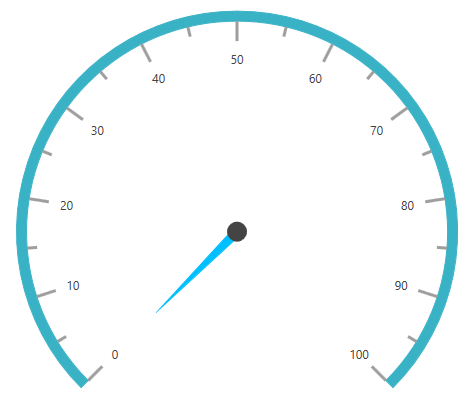
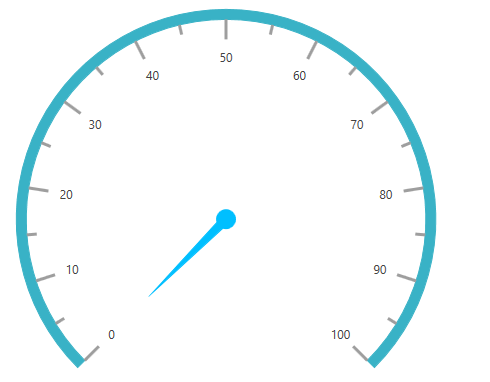
RangePointer, SymbolPointer and NeedlePointer customization options added.

diff --git a/wpf/Radial-Gauge/Pointers.md b/wpf/Radial-Gauge/Pointers.md
@@ -123,7 +123,7 @@ sfCircularGauge.Scales.Add(mainscale);
 
 ### Needle pointer customization
 
-The length of a needle is controlled using the [`NeedleLengthFactor`](https://help.syncfusion.com/cr/wpf/Syncfusion.SfGauge.WPF~Syncfusion.UI.Xaml.Gauges.CircularPointer~NeedleLengthFactor.html) property. The minimum and maximum bounds of the `NeedleLengthFactor` property is 0 to 1. The needle’s UI is customized using the [`NeedlePointerStroke`](https://help.syncfusion.com/cr/wpf/Syncfusion.SfGauge.WPF~Syncfusion.UI.Xaml.Gauges.CircularPointer~NeedlePointerStroke.html) and [`NeedlePointerStrokeThickness`](https://help.syncfusion.com/cr/wpf/Syncfusion.SfGauge.WPF~Syncfusion.UI.Xaml.Gauges.CircularPointer~NeedlePointerStrokeThickness.html) properties. The size of the pointer cap can be modified by changing the [`PointerCapDiameter`](https://help.syncfusion.com/cr/wpf/Syncfusion.SfGauge.WPF~Syncfusion.UI.Xaml.Gauges.CircularPointer~PointerCapDiameter.html) property, and color can be modified using the [`KnobStroke`](https://help.syncfusion.com/cr/wpf/Syncfusion.SfGauge.WPF~Syncfusion.UI.Xaml.Gauges.CircularPointer~KnobStroke.html) property.
+The length of a needle is controlled using the [`NeedleLengthFactor`](https://help.syncfusion.com/cr/wpf/Syncfusion.SfGauge.WPF~Syncfusion.UI.Xaml.Gauges.CircularPointer~NeedleLengthFactor.html) property. The minimum and maximum bounds of the `NeedleLengthFactor` property is 0 to 1. The needle’s UI is customized using the [`NeedlePointerStroke`](https://help.syncfusion.com/cr/wpf/Syncfusion.SfGauge.WPF~Syncfusion.UI.Xaml.Gauges.CircularPointer~NeedlePointerStroke.html) and [`NeedlePointerStrokeThickness`](https://help.syncfusion.com/cr/wpf/Syncfusion.SfGauge.WPF~Syncfusion.UI.Xaml.Gauges.CircularPointer~NeedlePointerStrokeThickness.html) properties. The size of the pointer cap can be modified by changing the [`PointerCapDiameter`](https://help.syncfusion.com/cr/wpf/Syncfusion.SfGauge.WPF~Syncfusion.UI.Xaml.Gauges.CircularPointer~PointerCapDiameter.html) property, and color can be modified using the [`KnobStroke`](https://help.syncfusion.com/cr/wpf/Syncfusion.SfGauge.WPF~Syncfusion.UI.Xaml.Gauges.CircularPointer~KnobStroke.html) and [`KnobFill`](https://help.syncfusion.com/cr/wpf/Syncfusion.SfGauge.WPF~Syncfusion.UI.Xaml.Gauges.CircularPointer~KnobFill.html) properties.
 
 {% tabs %}
 
@@ -139,6 +139,7 @@ The length of a needle is controlled using the [`NeedleLengthFactor`](https://he
 
     <gauge:CircularPointer PointerType="NeedlePointer" NeedlePointerType="Triangle" 
                            NeedlePointerStroke="DeepSkyBlue" PointerCapDiameter="20" KnobStroke="DeepSkyBlue"
+			   KnobFill="DeepSkyBlue"
                            NeedleLengthFactor="0.5" NeedlePointerStrokeThickness="10"/>
 
     </gauge:CircularScale.Pointers>
@@ -172,6 +173,8 @@ circularPointer.NeedleLengthFactor = 0.5;
 circularPointer.PointerCapDiameter = 20;
 
 circularPointer.KnobStroke = new SolidColorBrush(Colors.DeepSkyBlue);
+
+circularPointer.KnobFill = new SolidColorBrush(Colors.DeepSkyBlue);
 
 mainscale.Pointers.Add(circularPointer);
 
@@ -470,8 +473,11 @@ sfCircularGauge.Scales.Add(mainscale);
 
 ### Setting position for range pointer
 
-The `RangePointer` can be positioned inside the gauge by the following two ways:
-*	Using the [`RangePointerPosition`](https://help.syncfusion.com/cr/wpf/Syncfusion.SfGauge.WPF~Syncfusion.UI.Xaml.Gauges.CircularScale~RangePointerPosition.html) property.
+The `RangePointer` can be positioned inside the gauge by the following ways:
+
+#### Setting range pointer position inside/outside	
+
+Using the [`RangePointerPosition`](https://help.syncfusion.com/cr/wpf/Syncfusion.SfGauge.WPF~Syncfusion.UI.Xaml.Gauges.CircularScale~RangePointerPosition.html) property.
 
 You can directly place the range pointer inside, outside or cross the scale by selecting one of the below option available in the `RangePointerPosition` property. 
 1.	Inside (Default)
@@ -531,9 +537,11 @@ sfCircularGauge.Scales.Add(mainscale);
 
 ![Pointers - Circular Gauge](Pointers_images/Pointers_img8.png)
 
-*	Using the `Offset` property with `RangePointerPosition` is custom.
+#### Setting custom range pointer position	
 
-This ways allows to place the range pointer anywhere inside the guage. First, set the `RangePointerPosition` to custom, and then set the `Offset` property for required position. `Offset' value should be from 0 to 1. 
+* Using the `Offset` property with `RangePointerPosition` is custom.
+
+`Offset` property allows to place the range pointer anywhere inside the guage. First, set the `RangePointerPosition` to custom, and then set the `Offset` property for required position. `Offset' value should be from 0 to 1. 
 
 {% tabs %}
 
@@ -579,6 +587,111 @@ sfCircularGauge.Scales.Add(mainscale);
 {% endtabs %}
 
 ![Pointers - Circular Gauge](Pointers_images/Pointers_img9.png)
+
+* `RangeStartOffset` and `RangeEndOffset` properties with `RangePointerPosition` is custom allows to place the range pointer anywhere inside the guage. First, set the `RangePointerPosition` to custom, and then set the `RangeStartOffset` and `RangeEndOffset` properties for required position. Offset value should be from 0 to 1. 
+
+{% tabs %}
+
+{% highlight xaml %}
+
+    <gauge:SfCircularGauge >
+        <gauge:SfCircularGauge.Scales >
+            <gauge:CircularScale  x:Name="scale" RangePointerPosition="Custom">
+                <gauge:CircularScale.Pointers>
+                    <gauge:CircularPointer PointerType="RangePointer" 
+					   RangeStartOffset="0.5"  RangeEndOffset="0.7" 
+                                           RangePointerStroke="LightGray" Value="90"/>
+                </gauge:CircularScale.Pointers>
+            </gauge:CircularScale>
+        </gauge:SfCircularGauge.Scales>
+    </gauge:SfCircularGauge>
+
+{% endhighlight %}
+
+{% highlight c# %}
+
+            SfCircularGauge sfCircularGauge = new SfCircularGauge();
+
+            CircularScale mainscale = new CircularScale();
+
+            mainscale.RangePointerPosition = RangePointerPosition.Custom;
+
+            CircularPointer circularPointer = new CircularPointer();
+
+            circularPointer.PointerType = PointerType.RangePointer;
+
+            circularPointer.RangeStartOffset = 0.5;
+
+            circularPointer.RangeEndOffset = 0.7;
+
+            circularPointer.RangePointerStroke = new SolidColorBrush(Colors.LightGray);
+
+            circularPointer.Value = 90;
+
+            mainscale.Pointers.Add(circularPointer);
+
+            sfCircularGauge.Scales.Add(mainscale);
+
+{% endhighlight %}
+
+{% endtabs %}
+
+![Pointers - Circular Gauge](Pointers_images/Pointers_rangepointer_custom_offset.png)
+
+### Range pointer start customization
+
+The [`RangeStart`] property used to customize the range pointer start position in scale. 
+
+{% tabs %}
+
+{% highlight xaml %}
+
+    <gauge:SfCircularGauge >
+            <gauge:SfCircularGauge.Scales >
+                <gauge:CircularScale  x:Name="scale" RangePointerPosition="Custom">
+                    <gauge:CircularScale.Pointers>
+                        <gauge:CircularPointer PointerType="RangePointer" 
+                                               RangeStart="20"
+                                               RangeStartOffset="0.5"  RangeEndOffset="0.7"
+                                           RangePointerStroke="LightGray" Value="90"/>
+                    </gauge:CircularScale.Pointers>
+                </gauge:CircularScale>
+            </gauge:SfCircularGauge.Scales>
+        </gauge:SfCircularGauge>
+
+{% endhighlight %}
+
+{% highlight c# %}
+
+            SfCircularGauge sfCircularGauge = new SfCircularGauge();
+
+            CircularScale mainscale = new CircularScale();
+
+            mainscale.RangePointerPosition = RangePointerPosition.Custom;
+
+            CircularPointer circularPointer = new CircularPointer();
+
+            circularPointer.PointerType = PointerType.RangePointer;
+
+            circularPointer.RangeStartOffset = 0.5;
+
+            circularPointer.RangeEndOffset = 0.7;
+
+	    circularPointer.RangeStart = 20;
+
+            circularPointer.RangePointerStroke = new SolidColorBrush(Colors.LightGray);
+
+            circularPointer.Value = 90;
+
+            mainscale.Pointers.Add(circularPointer);
+
+            sfCircularGauge.Scales.Add(mainscale);
+
+{% endhighlight %}
+
+{% endtabs %}
+
+![Pointers - Circular Gauge](Pointers_images/Pointers_rangepointer_custom_start.png)
 
 ### Setting range cap for range pointer
 
@@ -651,6 +764,137 @@ sfCircularGauge.Scales.Add(mainscale);
 {% endtabs %}
 
 ![Pointers - Circular Gauge](Pointers_images/Pointers_img10.png)
+
+### Symbol pointer types
+
+You can modify the symbol pointer view by choosing available options in [`Symbol`](https://help.syncfusion.com/cr/wpf/Syncfusion.SfGauge.WPF~Syncfusion.UI.Xaml.Gauges.Symbol.html) property. Please find the types of symbol below. 
+
+1. Arrow
+2. Cross
+3. Custom
+4. Diamond
+5. Ellipse
+6. Hexagon
+7. InvertedArrow
+8. InvertedTriangle
+9. Pentagon
+10. Rectangle
+11. RoundedRectangle
+12. Triangle
+
+{% tabs %}
+
+{% highlight xml %}
+
+     <gauge:SfCircularGauge >
+
+            <gauge:SfCircularGauge.Scales>
+
+                <gauge:CircularScale>
+
+                    <gauge:CircularScale.Pointers>
+
+                        <gauge:CircularPointer PointerType="SymbolPointer"  
+                                               Symbol="Pentagon"
+                                               Value="60"/>
+
+                    </gauge:CircularScale.Pointers>
+
+                </gauge:CircularScale>
+
+            </gauge:SfCircularGauge.Scales>
+
+        </gauge:SfCircularGauge>
+
+{% endhighlight %}
+
+{% highlight c# %}
+
+           SfCircularGauge sfCircularGauge = new SfCircularGauge();
+
+            CircularScale mainscale = new CircularScale();
+
+            CircularPointer circularPointer = new CircularPointer();
+
+            circularPointer.PointerType = PointerType.SymbolPointer;
+
+            circularPointer.Symbol = Symbol.Pentagon;
+
+            circularPointer.Value = 60;
+
+            mainscale.Pointers.Add(circularPointer);
+
+            sfCircularGauge.Scales.Add(mainscale);
+
+            grid.Children.Add(sfCircularGauge);
+
+{% endhighlight %}
+
+{% endtabs %}
+
+![Pointers - Circular Gauge](Pointers_images/Pointers_pentagon_symbolpointer.png)
+
+### Setting custom symbol pointer
+
+You can customize the `SymbolPointer` by setting `Symbol` as `Custom` and defining `SymbolTemplate`. Please find the custom template section below. 
+
+{% highlight xml %}
+
+<gauge:SfCircularGauge >
+            <gauge:SfCircularGauge.Scales >
+                <gauge:CircularScale  x:Name="scale" 
+                                      RangePointerPosition="Custom">
+                    <gauge:CircularScale.Pointers>
+                        <gauge:CircularPointer PointerType="SymbolPointer"
+                                               Symbol="Custom"
+                                               Value="60">
+                            <gauge:CircularPointer.SymbolPointerTemplate>
+                                <DataTemplate>
+                                    <Grid>
+                                        <Grid Name="backgroundGrid" Width="24" Height="24" Visibility="Visible">
+                                            <Ellipse Fill="White" Name="Fill" Visibility="Visible" />
+                                        </Grid>
+                                        <Path Stretch="Uniform" Fill="Black" Width="24" Height="24" 
+                                              Margin="0,0,0,0" RenderTransformOrigin="0.5,0.5">
+                                            <Path.Data>
+                                                <PathGeometry FillRule="Nonzero" 
+                                                              Figures="M23.9296875,10.6165618896484L20.759765625,11.2200794219971 18.09375,
+                            13.0306243896484 16.283203125,15.6966400146484 15.6796875,18.8665618896484 16.283203125,
+                            22.0423431396484 18.09375,24.7259368896484 20.759765625,26.5540618896484 23.9296875,27.1634368896484 27.1025371551514,
+                            26.5540618896484 29.77734375,24.7259368896484 31.5966796875,22.0423431396484 32.203125,18.8665618896484 31.5966796875,
+                            15.6966400146484 29.77734375,13.0306243896484 27.1025371551514,11.2200794219971 23.9296875,10.6165618896484z M25.265625,
+                            7.35874938964844L26.6953125,9.86656188964844 29.3671875,8.64781188964844 29.765625,11.4837493896484 32.7421875,
+                            11.2728118896484 32.015625,14.1790618896484 34.921875,14.9759368896484 33.1875,17.4134368896484 35.578125,
+                            19.1478118896484 33.140625,20.7884368896484 34.640625,23.3665618896484 31.8046875,23.9759368896484 32.3203125,
+                            26.9759368896484 29.4375,26.5540618896484 28.921875,29.4837493896484 26.25,27.9603118896484 24.75,
+                            30.4681243896484 22.8046875,28.2181243896484 20.5078125,30.0228118896484 19.5703125,27.1634368896484 16.640625,
+                            28.0306243896484 16.875,25.1009368896484 13.875,24.7728118896484 15.140625,22.1478118896484 12.421875,
+                            20.7415618896484 14.5546875,18.6790618896484 12.4921875,16.5228118896484 15.2578125,15.3040618896484 14.203125,
+                            12.5384368896484 17.1328125,12.3978118896484 17.1328125,9.42124938964844 19.921875,10.4056243896484 21.046875,
+                            7.61656188964844 23.296875,9.49156188964844 25.265625,7.35874938964844z" />
+                                            </Path.Data>
+                                            <Path.RenderTransform>
+                                                <TransformGroup>
+                                                    <TransformGroup.Children>
+                                                        <RotateTransform Angle="0" />
+                                                        <ScaleTransform ScaleX="1" ScaleY="1" />
+                                                    </TransformGroup.Children>
+                                                </TransformGroup>
+                                            </Path.RenderTransform>
+                                        </Path>
+                                    </Grid>
+                                </DataTemplate>
+                            </gauge:CircularPointer.SymbolPointerTemplate>
+                        </gauge:CircularPointer>
+                                               
+                    </gauge:CircularScale.Pointers>
+                </gauge:CircularScale>
+            </gauge:SfCircularGauge.Scales>
+        </gauge:SfCircularGauge>    
+
+{% endhighlight %}
+
+![Pointers - Circular Gauge](Pointers_images/Pointers_custom_symbolpointer.png)
 
 ### Symbol pointer customization
 

diff --git a/wpf/Radial-Gauge/Ranges.md b/wpf/Radial-Gauge/Ranges.md
@@ -529,14 +529,11 @@ In addition to the default range, you can add n number of ranges to a scale by u
             <gauge:CircularScale  RangePosition="Inside" Radius="200">
                 <gauge:CircularScale.Ranges>
                     <gauge:CircularRange StartValue="0" EndValue="40" 
-                                         Stroke="Green" StrokeThickness ="10" 
-                                         StartWidth="1" EndWidth="10"/>
+                                         Stroke="Green" StrokeThickness ="10"/>
                     <gauge:CircularRange StartValue="40" EndValue="60" 
-                                         Stroke="Yellow" StrokeThickness ="10" 
-                                         StartWidth="1" EndWidth="10"/>
+                                         Stroke="Yellow" StrokeThickness ="10"/>
                     <gauge:CircularRange StartValue="60" EndValue="100" 
-                                         Stroke="Red" StrokeThickness ="10" 
-                                         StartWidth="1" EndWidth="10"/>
+                                         Stroke="Red" StrokeThickness ="10"/>
                 </gauge:CircularScale.Ranges>
                 <gauge:CircularScale.Pointers>
                     <gauge:CircularPointer NeedlePointerVisibility="Hidden"/>

diff --git a/wpf/Radial-Gauge/Labels.md b/wpf/Radial-Gauge/Labels.md
@@ -231,13 +231,9 @@ sfCircularGauge.Scales.Add(mainscale);
 
 ## Setting a smart labels
 
-Smart labels allow to change the numeric scale type of the labels displayed in a gauge scale, and customize the labels by adding prefixes or suffixes to the scale labels.
-
-### Enable or disable smart labels
-
 The [`EnableSmartLabels`](https://help.syncfusion.com/cr/wpf/Syncfusion.SfGauge.WPF~Syncfusion.UI.Xaml.Gauges.CircularScale~EnableSmartLabels.html) property is a Boolean property that enables or disables the smart label feature of the circular gauge.
 
-## Setting a numeric scale type
+This property allow to change the `NumericScaleType` of the labels displayed in a gauge scale, and customize the labels by adding prefixes or suffixes to the scale labels.
 
 The [`NumericScaleType`](https://help.syncfusion.com/cr/wpf/Syncfusion.SfGauge.WPF~Syncfusion.UI.Xaml.Gauges.CircularScale~NumericScaleType.html) property allows to set the type of label. The following types can be applied to labels:
 
